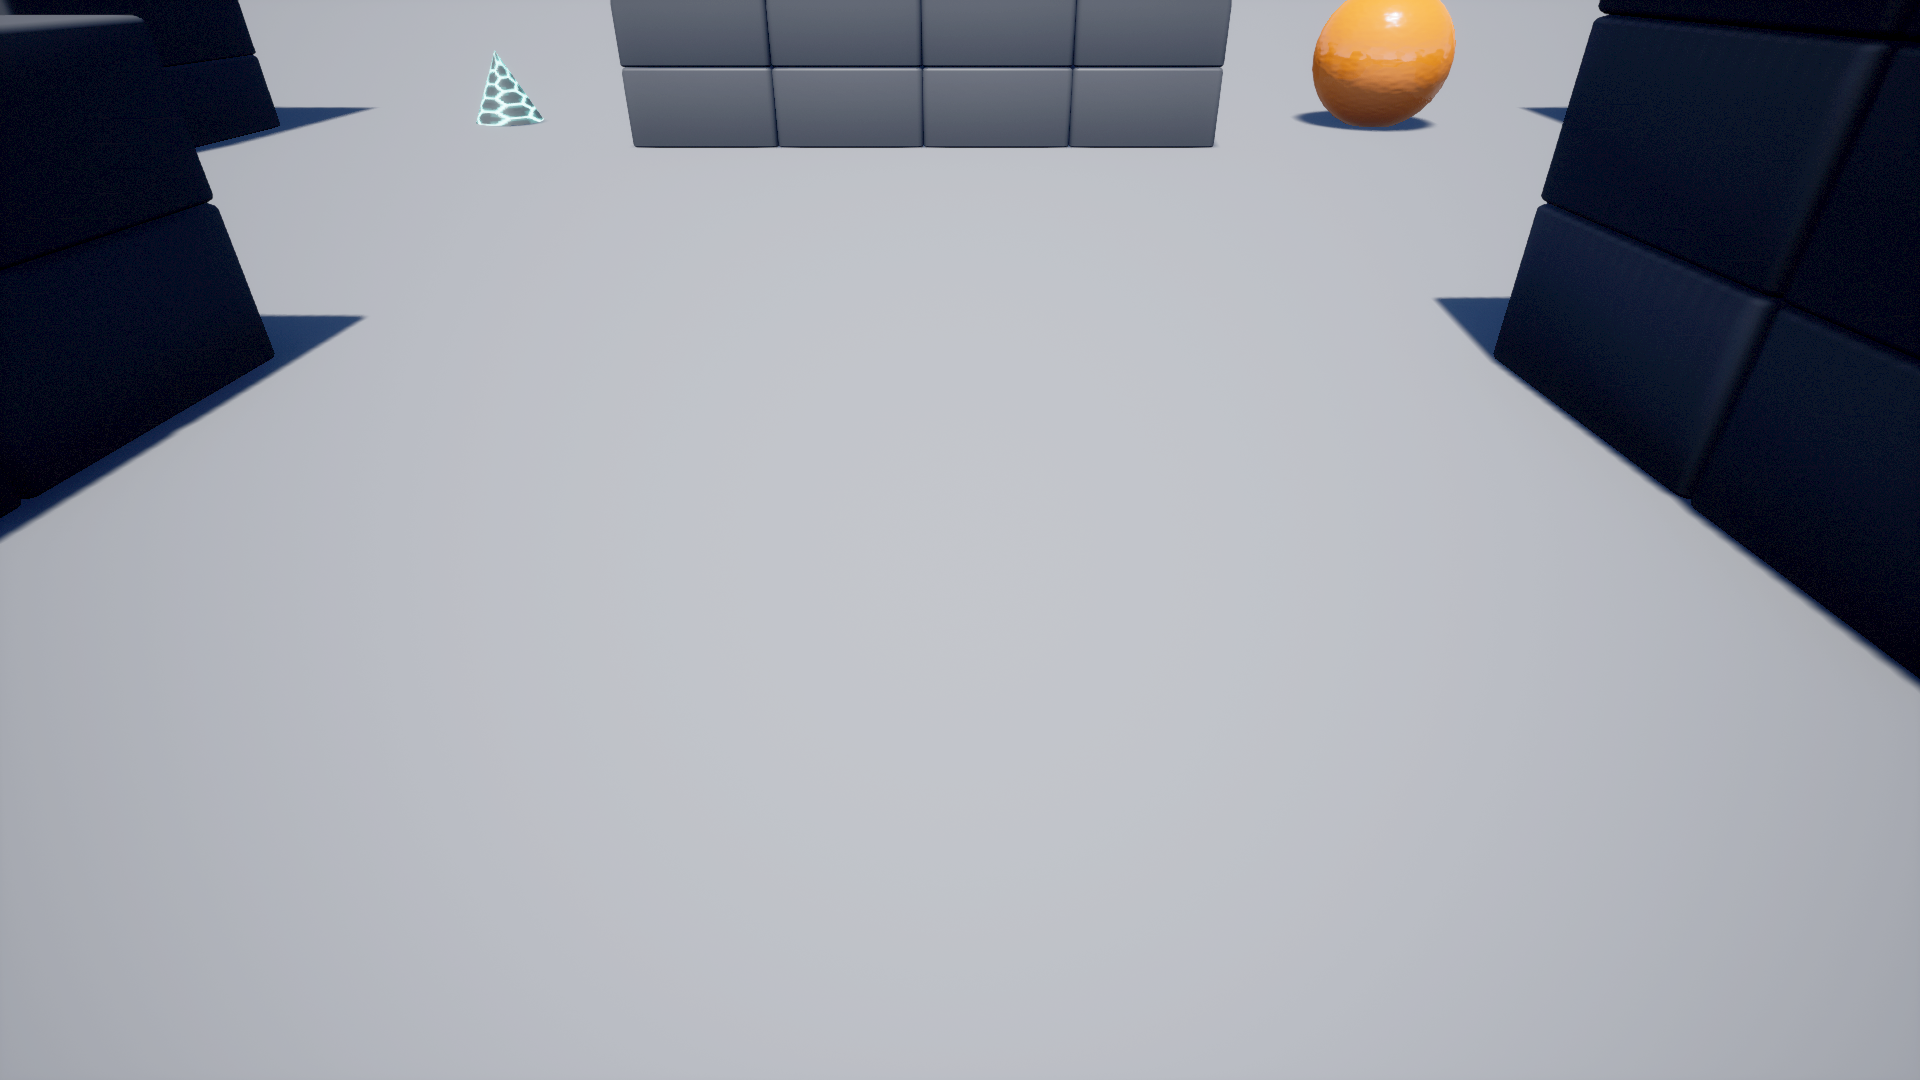
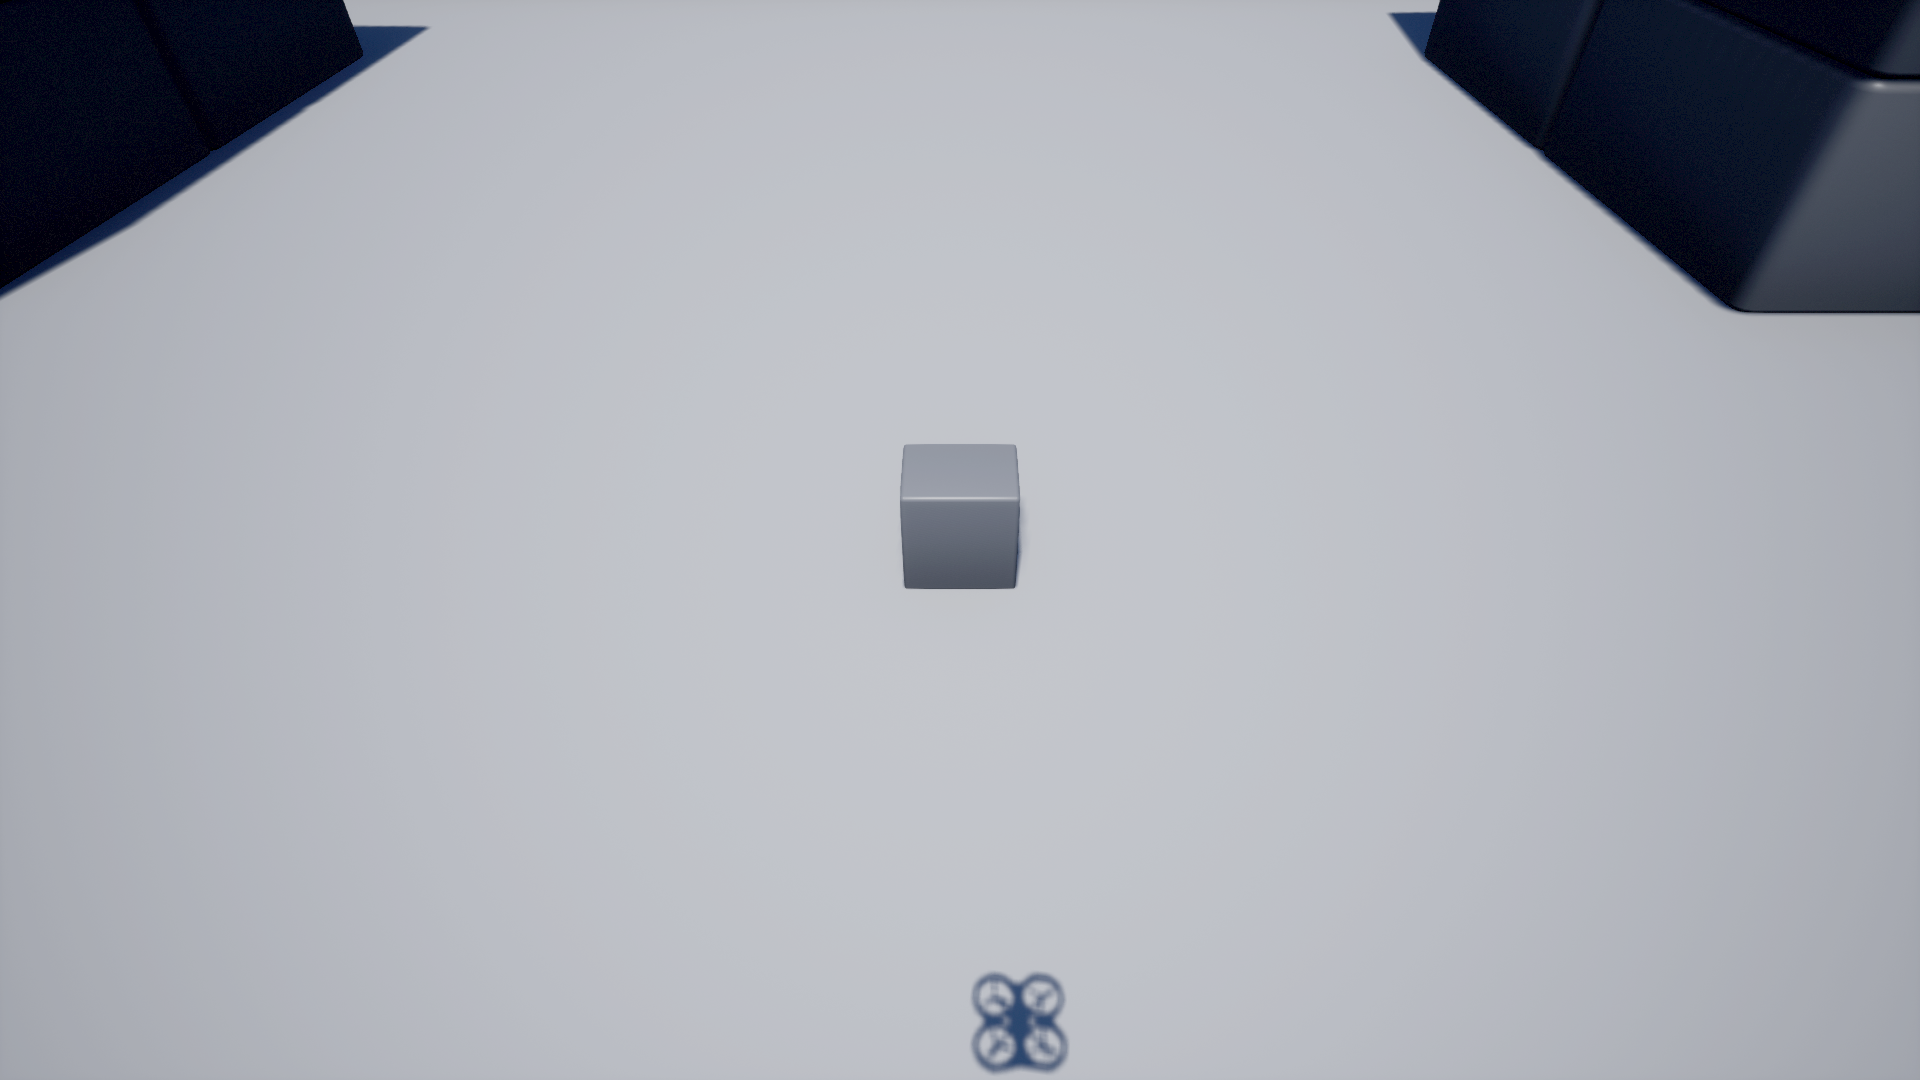
update
control_algorithm.py
drone_movement.py
main.py
read_file.py

diff --git a/control_algorithm.py b/control_algorithm.py
@@ -1,18 +1,18 @@
-import numpy
+import math
 import airsim_basic_function as abf
 
 
 '''
 Dimension unit in UE4 is set to 10 times larger as real world number.
 '''
+filming_hight = 12
 
 
-def drone_approach_filming_location():
+def drone_approach_filming_location(frame_count, index_of_coordinate):
     """
     Description:
         Use center coordinate to adjust detail relative coordinate.
-        Use the distance times a value as actual direct distance, and use known altitude, to calculate x and y movement
-            to reach filming coordinate.
+        Use measured length to calculate x and y movement, reaching filming coordinate.
         Use total frame count(same distance, different angle) of the original video to simulate original filming
             coordinate.
     parameter:
@@ -23,7 +23,22 @@ def drone_approach_filming_location():
     Link:
 
     """
-    print('')
+    obj_x = 9
+    obj_y = 0
+    total_frame_count = 1174
+    l = 10 #100cm
+
+    frame_count = float(frame_count)
+    degree = frame_count/total_frame_count*360
+    print('control_algorithm.py-> ' + str(degree))
+    real_degree = index_of_coordinate / frame_count * degree
+
+    drone_x = obj_x + l * math.sin(real_degree - 90)
+    drone_y = obj_y + l * math.cos(real_degree - 90)
+
+    print(f'control_algorithm.py-> filming coordinate(x,y)=({drone_x},{drone_y})')
+    abf.drone_move_to_position(drone_x, drone_y, filming_hight, 5)
+
 
 
 def drone_approach_target(x, y):
@@ -43,4 +58,4 @@ def drone_approach_target(x, y):
     drone_x_distance = float(x) / 498 * 9
     drone_y_distance = (float(y) - (1920 / 2)) / 498 * 9
     print(f'control_algorithm.py-> Approach_Target(x,y)=({drone_x_distance},{drone_y_distance})')
-    abf.drone_move_to_position(drone_x_distance, drone_y_distance, 10, 5)
+    abf.drone_move_to_position(drone_x_distance, drone_y_distance, filming_hight, 5)

diff --git a/main.py b/main.py
@@ -4,24 +4,6 @@ import sys
 import os
 
 
-'''
-def spawn_program_and_die(program, exit_code=0):
-    """
-    Description:
-        Run another python script and close it after it's finished. It's not working somehow.
-    Parameter:
-        Input:
-            program: (str) Execute program.
-        Output:
-            None
-    Link:
-        https://stackoverflow.com/questions/7974849/how-can-i-make-one-python-file-run-another
-    """
-    subprocess.Popen(program)
-    sys.exit(exit_code)
-'''
-
-
 if __name__ == '__main__':
     """
     Description:
@@ -40,7 +22,7 @@ if __name__ == '__main__':
     abf.drone_initialize()
 
     # Perform drone movements
-    print('main.py-> moving drone...')
+    print('main.py-> starting drone_movement.py...')
     exec(open("drone_movement.py").read())
 
 """
@@ -54,3 +36,20 @@ parameter:
 Link:
     
 """
+
+'''
+def spawn_program_and_die(program, exit_code=0):
+    """
+    Description:
+        Run another python script and close it after it's finished. It's not working somehow.
+    Parameter:
+        Input:
+            program: (str) Execute program.
+        Output:
+            None
+    Link:
+        https://stackoverflow.com/questions/7974849/how-can-i-make-one-python-file-run-another
+    """
+    subprocess.Popen(program)
+    sys.exit(exit_code)
+'''

diff --git a/drone_movement.py b/drone_movement.py
@@ -4,26 +4,31 @@ import airsim_basic_function as abf
 import control_algorithm as ca
 
 
-# Read single row of data
-print('drone_movement.py-> data...')
+# Read data
+print('drone_movement.py-> gathering data...')
 coordinate = rf.read_csv('./test_coordinate/target_coordinate.csv')
 cor, t_row, t_col = rf.get_csv_data_single_row_adj_element(coordinate, 0, 2, 11)
-line = rf.read_txt('./test_coordinate/frcnn_test_info.txt', 79)
-distance = rf.line_split(line, 7)
+line1 = rf.read_txt('./test_coordinate/frcnn_test_info.txt', 15)
+frame_count = rf.line_split(line1, 4)
+line2 = rf.read_txt('./test_coordinate/frcnn_test_info.txt', 79)
+distance = rf.line_split(line2, 7)
 
 # Take off
 abf.adjust_camera_angle(-42, 0)
 abf.drone_takeoff(-10, 5)
-# abf.capture_single_picture('./captured_image', '1')
+abf.capture_single_picture('./captured_image', '1')
 
 # Approach filming location
-
+ca.drone_approach_filming_location(frame_count, 1)
+abf.capture_single_picture('./captured_image', '2')
 
 # Approach target
 ca.drone_approach_target(cor[5], cor[4])
-# abf.capture_single_picture('./captured_image', '2')
+abf.adjust_camera_angle(-60, 0)
+abf.capture_single_picture('./captured_image', '3')
 
 
 # Landing
-abf.adjust_camera_angle(21, 0)
+#abf.adjust_camera_angle(0, 0)
 abf.drone_landing(10, 5)
+abf.adjust_camera_angle(0, 0)

diff --git a/read_file.py b/read_file.py
@@ -15,7 +15,7 @@ def read_csv(program):
         https://realpython.com/python-return-statement/
     """
     file = open(program)
-    print('read_file.py-> csv file opened')
+    #print('read_file.py-> csv file opened')
     csvreader = csv.reader(file)
     print('read_file.py-> csv file read')
     rows = []
@@ -107,7 +107,7 @@ def read_txt(program, line_number):
             line = f.readline()
             # print('read_file.py-> Line' + str(i) + ': ' + line)
             i += 1
-        print('read_file.py-> finished reading txt')
+        print('read_file.py-> txt file read')
     return line
 
 
